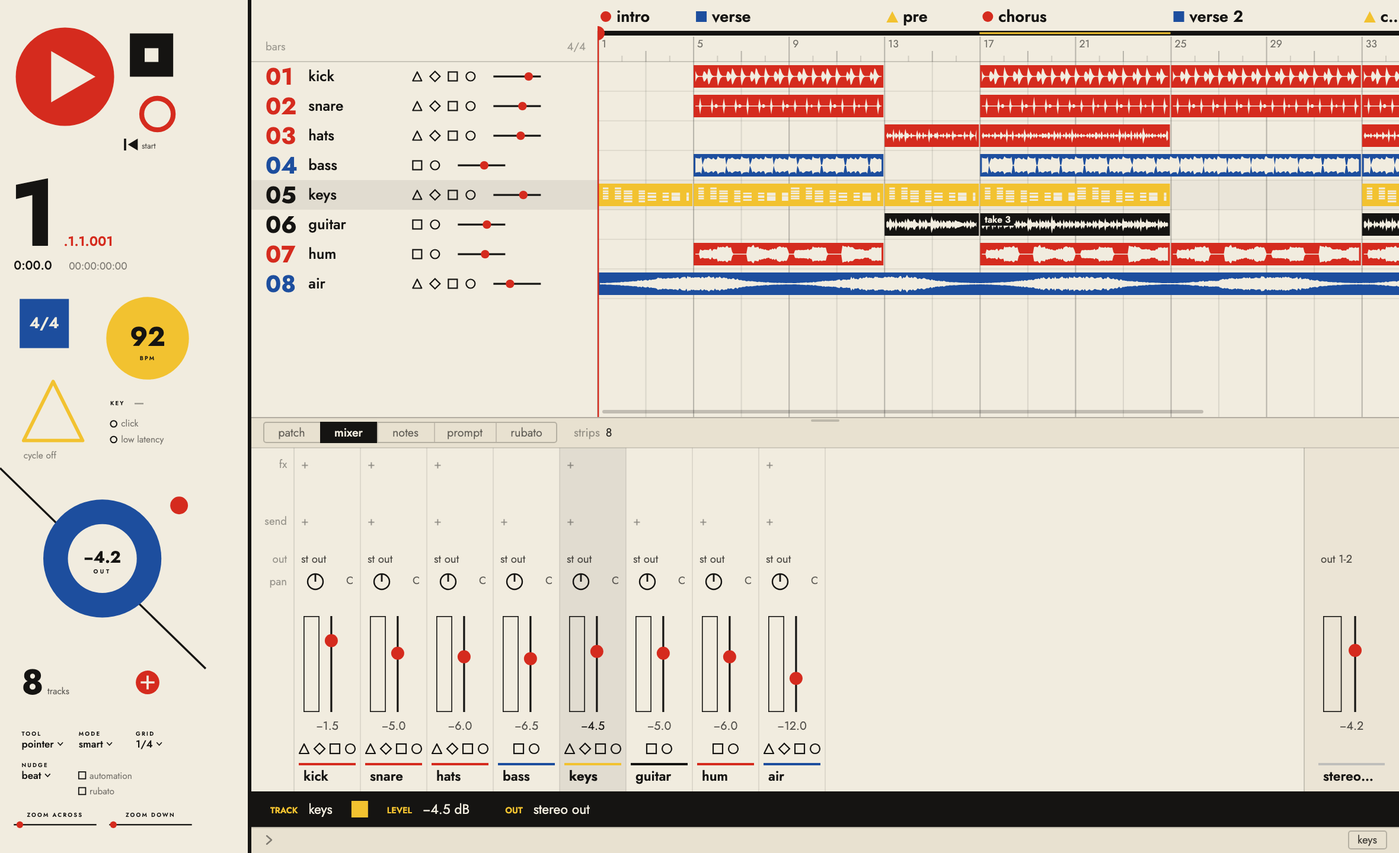
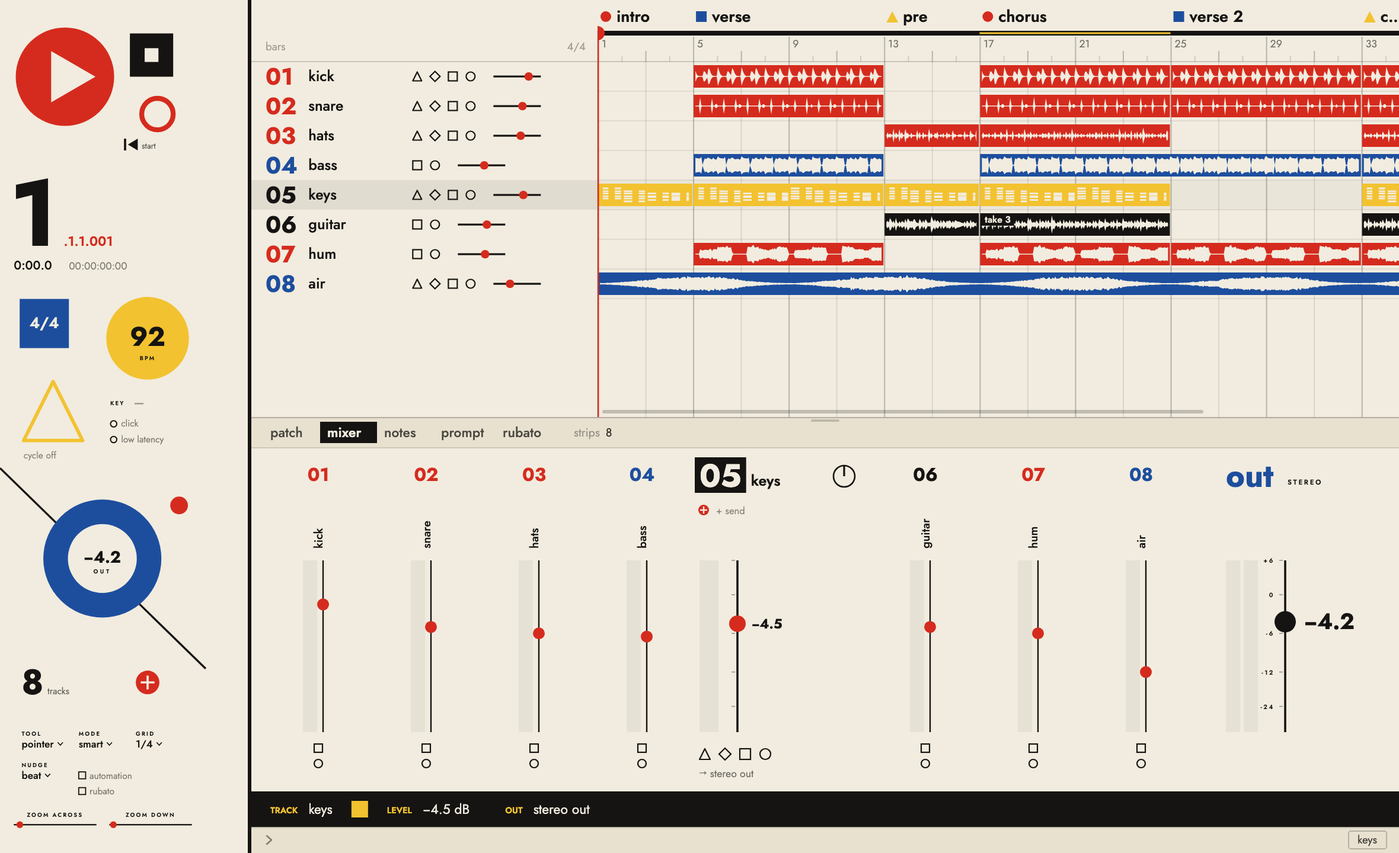
feat(daw): the bauhaus mixer — every track in sight, the chosen open; sends as knobs; its tabs as words
His pick of design/bauhaus mixer draft 2 (2026-10-21). A strip a column of a poster with no rules between; the strips
share the width so that every track is in sight: the chosen ones stand open (their number large in their colour, on a
black block when chosen, their name, a pan ring with a needle, their patch as squares of colour with names and a red
disc to put one on, the level as a bar of their colour as high as they sound with a black rule and a red disc and its
figure, their buttons as shapes, where they go), the others close to their number, their name turned up the strip, the
bar and the red disc, mute and solo; a closed strip pressed opens. Only past what the width holds (some fifty tracks
at 1440) do the strips scroll, a row of the numbers over them going to any one. The sends, his word on it: round knobs
as Logic Pro's down the room right of the level, how much under each, a dashed knob to give another, sized so six
stand in a strip; a send's knob turns from where it stands (up and to the right; ui.js 'msend' takes data-rel). The out
a blue bar each side and a black disc. The panel's tabs drawn by the theme (kit.js cells asks skins.js skinTabs):
words, the open one on black. Drafts in design/bauhaus mixer draft 1 and 2; the guide's bauhaus row says the mixer.

diff --git a/Daw/ui/skin-poster.js b/Daw/ui/skin-poster.js
@@ -176,3 +176,121 @@ SKINS.strip.poster = {
   cells: (sx, sw, y, its, i) => { let s = '', x = sx + (sw - its.length * 13 + 5) / 2; for (const it of its) { s += bhShape(it.t, x, y + 4, 8, it.on, it.t === 's' ? BH.blue : BH.black) + hit(x - 3, y, 14, 16, it.a, ` data-i="${i}"`); x += 13 } return s },
   name: (x, w, sx, sw, yb, t, sel) => T(sx + 4, yb - 9, fit(asGiven(t.name), sw - 6, 11, 600), { size: 11, w: sel ? 700 : 600 }),
 }
+
+/* ── the mixer (his pick of design/bauhaus mixer draft 2, 2026-10-21): every track in sight ──
+   A strip a column of a poster, no rules between them; the strips share the width so that every track is in sight. The
+   chosen tracks stand open: their number large in their colour (on a black block) and their name, their pan a ring with a
+   needle, what is on their patch as squares of colour with names, a red disc to put one on; the level, the largest part: a bar of their colour as high as they sound, a black rule, a red disc on it and its
+   figure beside, and right of it their sends as round knobs, how much under each; their buttons as shapes and where
+   they go. The others close to their number, their name turned up the
+   strip, the bar and the red disc, mute and solo. Pressed, a closed strip opens (it is chosen). Only past what the width
+   holds do the strips scroll, and a row of the numbers over them goes to any one. The out at the right: a blue bar for
+   each side, a black disc on the rule, its figure large. */
+const BMX = { v: new Map() }
+const BMX_WIDE = 148, BMX_MIN = 15, BMX_SENDS = 3                                 // (BMX_SENDS: as many sends as the engine has for a track — Engine.h SendSlot)
+function bhMixer (y, h) {
+  const vis = rows(), mw = 150, gutter = 14, room = RX - mw - gutter * 2
+  const nOpen = Math.min(vis.filter(i => isChosen(i)).length, Math.floor(room / BMX_WIDE))
+  let wide = BMX_WIDE, slim = 0, list = vis, over = false
+  if (vis.length * 104 <= room) { wide = clamp(Math.floor(room / vis.length), 104, BMX_WIDE); slim = wide }
+  else {
+    slim = Math.floor((room - nOpen * BMX_WIDE) / Math.max(1, vis.length - nOpen))
+    if (slim < BMX_MIN) {
+      over = true; slim = BMX_MIN
+      const fitN = nOpen + Math.floor((room - nOpen * BMX_WIDE) / BMX_MIN), at = vis.indexOf(S.sel)
+      if (at >= 0 && (at < S.panel.mx || at >= S.panel.mx + fitN)) S.panel.mx = at - Math.floor(fitN / 2)      // (the track chosen elsewhere is brought into sight)
+      S.panel.mx = clamp(S.panel.mx, 0, Math.max(0, vis.length - fitN)); list = vis.slice(S.panel.mx, S.panel.mx + fitN)
+    }
+    slim = Math.min(slim, 100)
+  }
+  /* how many lines the open strips' patches and sends take: the level starts under the longest */
+  const lines = t => { const f = fxItems(t).length; return Math.min(f, 3) + (f > 3 ? 1 : 0) + (t.theirs ? 0 : 1) }
+  const most = Math.max(3, ...list.filter(i => isChosen(i) || slim >= 104).map(i => lines(S.tracks[i])))
+  const top = y + (over ? 26 : 10), foot = y + h - 10, lt = top + 46 + most * 13, lb = foot - 40, lh = Math.max(30, lb - lt)
+  const yOf = db => lb - lh * volF(db)
+  BMX.v.clear()
+  let s = R(0, y, RX, h, { fill: K1 })
+  if (over) {
+    const cw = Math.min(22, (RX - 2 * gutter) / vis.length)
+    vis.forEach((i, k) => { const t = S.tracks[i], x = gutter + k * cw; s += T(x + cw / 2, y + 16, String(i + 1), { size: 8, w: 700, c: bhInk(bhCol(t)), a: list.includes(i) ? 1 : .45, anchor: 'middle' }) + hit(x, y + 4, cw, 16, 'msel', ` data-i="${i}"`) })
+  }
+  let x = gutter
+  for (const i of list) {
+    const t = S.tracks[i], di = ` data-i="${i}"`, sel = isChosen(i), c = bhCol(t), ink = bhInk(c), vol = shown(t, 'vol'), sw = sel || slim >= 104 ? wide : slim
+    const num = pad2(i + 1)
+    BMX.v.set(t.id, [lt, lh])
+    if (sw >= 104) {
+      const nw = tw(num, 26, 700), pan = shown(t, 'pan') || 0
+      if (sel) s += R(x - 4, top - 2, nw + 8, 30, { fill: BH.black })
+      s += T(x, top + 23, num, { size: 26, w: 700, c: sel ? BH.paper : ink }) + T(x + nw + 8, top + 22, fit(asGiven(t.name), sw - nw - 44, 12, 600), { size: 12, w: 600, a: heard(t) ? 1 : .5 }) + hit(x - 4, top - 2, sw - 30, 32, 'msel', di)
+      const pcx = x + sw - 26, pcy = top + 14, a = pan * 2.4
+      s += Cc(pcx, pcy, 9, { stroke: BH.black, sw: 1.3 }) + P(`M${n(pcx)} ${n(pcy)}L${n(pcx + 9 * Math.sin(a))} ${n(pcy - 9 * Math.cos(a))}`, { stroke: BH.black, sw: 1.6 }) + hit(pcx - 16, pcy - 13, 32, 26, 'mpan', `${di} data-x="${n(pcx - 30)}" data-pw="60"`, 'ew-resize')
+      /* its patch, a red disc to put one on */
+      const its = fxItems(t)
+      let yy = top + 46
+      its.slice(0, 3).forEach((it, j) => { s += R(x, yy - 7, 7, 7, { fill: it.c || BH.black, fa: it.off ? .35 : 1 }) + T(x + 11, yy, fit(asGiven(it.t), sw - 40, 9), { size: 9, a: it.off ? .45 : .9 }) + hit(x - 2, yy - 10, sw - 30, 13, 'mfx', `${di} data-k="${j}"`); yy += 13 })
+      if (its.length > 3) { s += T(x + 11, yy, `+${its.length - 3} more`, { size: 8, a: .5 }) + hit(x - 2, yy - 10, sw - 30, 13, 'm-patch', di); yy += 13 }
+      if (!t.theirs) s += Cc(x + 3.5, yy - 3.5, 4.5, { fill: BH.red }) + P(`M${n(x + 3.5)} ${n(yy - 6.5)}v6M${n(x + .5)} ${n(yy - 3.5)}h6`, { stroke: BH.paper, sw: 1.2 }) + hit(x - 3, yy - 10, 14, 13, 'mfxadd', di)
+      /* its sends: round knobs down the room right of the level, as many as there are and one more to give another (his
+         word on draft 2: knobs as Logic Pro's sends, how much under each; sized so that six stand in a strip) */
+      const sends = t.sends || [], canAdd = !t.theirs && sends.length < BMX_SENDS, slots = Math.max(6, sends.length + (canAdd ? 1 : 0)), per = lh / slots, kr = clamp((per - 14) / 2, 5.5, 11), kx = x + sw - 22
+      const knob = (cy, f) => { const a0 = -135 * Math.PI / 180, a1 = a0 + f * 270 * Math.PI / 180, at = (r, q) => `${n(kx + r * Math.sin(q))} ${n(cy - r * Math.cos(q))}`; return Cc(kx, cy, kr, { fill: BH.paper, stroke: BH.black, sw: 1.2 }) + (f > .004 ? P(`M${at(kr + 2.6, a0)}A${n(kr + 2.6)} ${n(kr + 2.6)} 0 ${f > 2 / 3 ? 1 : 0} 1 ${at(kr + 2.6, a1)}`, { stroke: BH.red, sw: 2.4 }) : '') + P(`M${n(kx)} ${n(cy)}L${at(kr - 1, a1)}`, { stroke: BH.black, sw: 1.6 }) }
+      sends.forEach((sd, k) => {
+        const cy = lt + per * k + kr + 3
+        s += knob(cy, volF(sd.db)) + T(kx, cy + kr + 9, fmtDb(sd.db), { size: 7.5, w: 600, a: .8, anchor: 'middle' })
+        s += hit(kx - kr - 5, cy - kr - 5, 2 * kr + 10, 2 * kr + 16, 'msend', `${di} data-k="${k}" data-rel="1" data-x="${n(kx - 60)}" data-pw="120"`, 'ns-resize')
+      })
+      if (canAdd) { const cy = lt + per * sends.length + kr + 3; s += Cc(kx, cy, kr, { stroke: BH.black, sw: 1, dash: '2 2', sa: .5 }) + P(`M${n(kx)} ${n(cy - 4)}v8M${n(kx - 4)} ${n(cy)}h8`, { stroke: BH.black, sw: 1.2, sa: .6 }) + hit(kx - kr - 4, cy - kr - 4, 2 * kr + 8, 2 * kr + 8, 'msendadd', di) }
+      /* the level */
+      const bw = 16, rx0 = x + bw + 16, fy = yOf(vol)
+      s += R(x, lt, bw, lh, { fill: BH.black, fa: .05 }) + R(x, lb, bw, 0, { fill: c, x: ` id="bmx-${t.id}"` })
+      for (const db of [6, 0, -6, -12, -24]) s += R(rx0 - 5, yOf(db) - .4, 3, .8, { fill: BH.black, fa: .4 })
+      s += R(rx0 - .9, lt, 1.8, lh, { fill: BH.black }) + Cc(rx0, fy, 7, { fill: BH.red, fa: heard(t) ? 1 : .5 }) + T(rx0 + 12, fy + 4, fmtDb(vol), { size: 11, w: 700 })
+      s += hit(x - 2, lt - 8, sw - 38, lh + 16, 'mvol', `${di} data-w="0"`, 'ns-resize')      // (short of the sends' knobs)
+      let cx = x
+      for (const it of cellsOf(t)) { s += bhShape(it.t, cx, foot - 26, 9, it.on, it.t === 's' ? BH.blue : BH.black) + hit(cx - 3, foot - 30, 15, 17, it.a, di); cx += 17 }
+      s += T(x, foot - 2, '→ ' + fit(asGiven(outName(t)), sw - 46, 8.5), { size: 8.5, a: .6 }) + hit(x - 2, foot - 12, sw - 30, 13, 'mout', di)
+    } else {
+      const cxm = x + (sw - 6) / 2, fy = yOf(vol)
+      s += T(cxm, top + 18, sw >= 30 ? num : String(i + 1), { size: sw >= 30 ? 15 : 10, w: 700, c: ink, anchor: 'middle' })
+      s += `<text x="${n(cxm + 3.5)}" y="${n(lt - 10)}" transform="rotate(-90 ${n(cxm + 3.5)} ${n(lt - 10)})" font-family="${FONT}" font-size="${n(9.5 * TF.scale)}" font-weight="500" fill="${BH.black}"${heard(t) ? '' : ' fill-opacity=".5"'}>${esc(fit(asGiven(t.name), lt - top - 34, 9.5))}</text>`
+      s += hit(x, top - 2, sw - 4, lt - top, 'msel', di)
+      const bw = Math.max(5, Math.min(12, sw * .3)), bx0 = cxm - bw - 1, rx0 = cxm + 4
+      s += R(bx0, lt, bw, lh, { fill: BH.black, fa: .05 }) + R(bx0, lb, bw, 0, { fill: c, x: ` id="bmx-${t.id}"` })
+      s += R(rx0 - .6, lt, 1.2, lh, { fill: BH.black }) + Cc(rx0, fy, sw >= 30 ? 5 : 4, { fill: BH.red, fa: heard(t) ? 1 : .5 })
+      s += hit(x, lt - 6, sw - 4, lh + 12, 'mvol', `${di} data-w="0"`, 'ns-resize')
+      cellsOf(t).filter(it => it.t === 'm' || it.t === 's').forEach((it, k) => { const yy = foot - 30 + k * 13; s += bhShape(it.t, cxm - 3.5, yy, 7, it.on, it.t === 's' ? BH.blue : BH.black) + hit(x, yy - 3, sw - 4, 13, it.a, di) })
+    }
+    x += sw
+  }
+  /* the out */
+  const ox = RX - mw - gutter + 18, fy = yOf(S.master), mr = ox + 50
+  BMX.v.set('M', [lt, lh])
+  s += T(ox, top + 23, 'out', { size: 26, w: 700, c: BH.blue }) + bhLab(ox + 52, top + 21, 'stereo') + hit(ox - 4, top - 2, mw - 20, 32, 'wall-out')
+  s += R(ox, lt, 12, lh, { fill: BH.black, fa: .05 }) + R(ox, lb, 12, 0, { fill: BH.blue, x: ' id="bmx-ML"' }) + R(ox + 15, lt, 12, lh, { fill: BH.black, fa: .05 }) + R(ox + 15, lb, 12, 0, { fill: BH.blue, x: ' id="bmx-MR"' })
+  for (const db of [6, 0, -6, -12, -24]) s += R(mr - 5, yOf(db) - .4, 3, .8, { fill: BH.black, fa: .4 }) + bhLab(mr - 9, yOf(db) + 2, db > 0 ? '+' + db : db, { anchor: 'end', size: 5 })
+  s += R(mr - .9, lt, 1.8, lh, { fill: BH.black }) + Cc(mr, fy, 9, { fill: BH.black }) + T(mr + 16, fy + 6, fmtDb(S.master), { size: 18, w: 700 })
+  s += hit(ox - 2, lt - 8, mw - 20, lh + 16, 'mmaster', '', 'ns-resize')
+  return s
+}
+SKINS.mixer.poster = bhMixer
+/* the panel's tabs: words, the open one on a black block */
+SKINS.tabs.poster = (x, y, h, items, o = {}) => {
+  let s = '', cx = x
+  items.forEach((it, k) => {
+    const w = tw(it.t, 11, it.on ? 600 : 500), cw = o.widths ? o.widths[k] : w + 16      // (as wide as the room's own tabs where it says: what follows them stays where it was)
+    s += (it.on ? R(cx, y, Math.max(cw, w + 12), h, { fill: BH.black }) : '') + T(cx + 6, y + h / 2 + 4, it.t, { size: 11, w: it.on ? 600 : 500, c: it.on ? BH.paper : BH.black, a: it.on ? 1 : .75 }) + hit(cx, y, cw, h, it.a)
+    cx += cw + (o.widths ? 0 : 4)
+  })
+  return [s, cx - x]
+}
+{ /* the mixer's bars, as loud as each track sounds now */
+  const frame0 = SKINS.frame.poster
+  SKINS.frame.poster = p => {
+    frame0(p)
+    if (typeof METERS !== 'object' || !BMX.v.size) return
+    const f = v => volF(Math.min(6, linDb(v)))
+    const bar = (id, g, v) => { const el = $(id); if (el && g) { const hh = g[1] * f(v); el.setAttribute('y', n(g[0] + g[1] - hh)); el.setAttribute('height', n(hh)) } }
+    for (const [key, g] of BMX.v) { if (key === 'M') { bar('bmx-ML', g, METERS.mm[0]); bar('bmx-MR', g, METERS.mm[1]) } else bar('bmx-' + key, g, METERS.now.get(key) || 0) }
+  }
+}

diff --git a/Daw/design/bauhaus mixer draft 2/mixer.js b/Daw/design/bauhaus mixer draft 2/mixer.js
@@ -1,0 +1,82 @@
+/* ── bauhaus, the mixer, draft 2: every track in sight (his ask, 2026-10-21: with many tracks, finding one should not
+   take scrolling) ──
+   Laid into the room by shots.mjs only (the room's own files are not changed until he says so).
+   As draft 1, a strip a column of a poster; but the strips share the width, so that every track is in sight. The chosen
+   tracks (chosen anywhere: in the lanes, the heads or here) stand open, as draft 1 has them; the others close to their
+   number, their name turned up the strip, the bar of their colour and the red disc of their level, and mute and solo as
+   a square and a circle. Pressed, a closed strip opens (it is chosen). Only past what the width can hold, the strips
+   scroll, and a row of the numbers over them goes to any one. */
+const BMX = { v: new Map() }
+const BMX_WIDE = 148, BMX_MIN = 15
+function bhMixer (y, h) {
+  const vis = rows(), mw = 150, gutter = 14, room = RX - mw - gutter * 2
+  const open = vis.filter(i => isChosen(i)), nOpen = Math.min(open.length, Math.floor(room / BMX_WIDE))
+  let wide = BMX_WIDE, slim = 0, list = vis, over = false
+  if (vis.length * 104 <= room) { wide = clamp(Math.floor(room / vis.length), 104, BMX_WIDE); slim = wide }      // (all of them open, as draft 1)
+  else {
+    slim = Math.floor((room - nOpen * BMX_WIDE) / Math.max(1, vis.length - nOpen))
+    if (slim < BMX_MIN) { over = true; slim = BMX_MIN; const fitN = nOpen + Math.floor((room - nOpen * BMX_WIDE) / BMX_MIN); S.panel.mx = clamp(S.panel.mx, 0, Math.max(0, vis.length - fitN)); list = vis.slice(S.panel.mx, S.panel.mx + fitN) }
+    slim = Math.min(slim, 100)
+  }
+  const top = y + (over ? 26 : 10), foot = y + h - 10, lt = top + 98, lb = foot - 40, lh = Math.max(40, lb - lt)
+  const yOf = db => lb - lh * volF(db)
+  let s = R(0, y, RX, h, { fill: K1 })
+  const lab = (x, yy, t, o = {}) => `<text x="${n(x)}" y="${n(yy)}" font-family="${FONT}" font-size="${n((o.size || 5.6) * TF.scale)}" font-weight="600" letter-spacing="1.3"${o.anchor ? ` text-anchor="${o.anchor}"` : ''} fill="${o.c || BH.black}"${o.a != null ? ` fill-opacity="${o.a}"` : ''}>${esc(String(t).toUpperCase())}</text>`
+  /* past the width: a row of the numbers, each going to its track */
+  if (over) {
+    const cw = Math.min(22, (RX - 2 * gutter) / vis.length)
+    vis.forEach((i, k) => { const t = S.tracks[i], x = gutter + k * cw, inView = list.includes(i); s += T(x + cw / 2, y + 16, String(i + 1), { size: 8, w: 700, c: bhInk(bhCol(t)), a: inView ? 1 : .45, anchor: 'middle' }) + hit(x, y + 4, cw, 16, 'msel', ` data-i="${i}"`) })
+  }
+  let x = gutter
+  for (const i of list) {
+    const t = S.tracks[i], di = ` data-i="${i}"`, sel = isChosen(i), c = bhCol(t), ink = bhInk(c), vol = shown(t, 'vol'), pan = shown(t, 'pan') || 0, sw = sel || slim >= 104 ? wide : slim, isOpen = sw >= 104
+    const num = pad2(i + 1)
+    BMX.v.set(t.id, [lt, lh])
+    if (isOpen) {
+      /* open: as draft 1 */
+      const nw = tw(num, 26, 700)
+      if (sel) s += R(x - 4, top - 2, nw + 8, 30, { fill: BH.black })
+      s += T(x, top + 23, num, { size: 26, w: 700, c: sel ? BH.paper : ink }) + T(x + nw + 8, top + 22, fit(asGiven(t.name), sw - nw - 44, 12, 600), { size: 12, w: 600, a: heard(t) ? 1 : .5 }) + hit(x - 4, top - 2, sw - 30, 32, 'msel', di)
+      const pcx = x + sw - 26, pcy = top + 14, a = pan * 2.4
+      s += Cc(pcx, pcy, 9, { stroke: BH.black, sw: 1.3 }) + P(`M${n(pcx)} ${n(pcy)}L${n(pcx + 9 * Math.sin(a))} ${n(pcy - 9 * Math.cos(a))}`, { stroke: BH.black, sw: 1.6 }) + hit(pcx - 16, pcy - 13, 32, 26, 'mpan', `${di} data-x="${n(pcx - 30)}" data-pw="60"`, 'ew-resize')
+      const its = fxItems(t), show = its.slice(0, 3)
+      show.forEach((it, j) => { const yy = top + 46 + j * 13; s += R(x, yy - 7, 7, 7, { fill: it.c || BH.black, fa: it.off ? .35 : 1 }) + T(x + 11, yy, fit(asGiven(it.t), sw - 40, 9), { size: 9, a: it.off ? .45 : .9 }) + hit(x - 2, yy - 10, sw - 30, 13, 'mfx', `${di} data-k="${j}"`) })
+      if (its.length > 3) s += T(x + 11, top + 46 + 3 * 13, `+${its.length - 3} more`, { size: 8, a: .5 }) + hit(x - 2, top + 46 + 3 * 13 - 10, sw - 30, 13, 'm-patch', di)
+      if (!t.theirs) { const ay = top + 46 + Math.min(its.length, 3) * 13 + (its.length > 3 ? 13 : 0); s += Cc(x + 3.5, ay - 3.5, 4.5, { fill: BH.red }) + P(`M${n(x + 3.5)} ${n(ay - 6.5)}v6M${n(x + .5)} ${n(ay - 3.5)}h6`, { stroke: BH.paper, sw: 1.2 }) + hit(x - 3, ay - 10, 14, 13, 'mfxadd', di) }
+      const bw = 16, rx0 = x + bw + 16, fy = yOf(vol)
+      s += R(x, lt, bw, lh, { fill: BH.black, fa: .05 }) + R(x, lb, bw, 0, { fill: c, x: ` id="bmx-${t.id}"` })
+      for (const db of [6, 0, -6, -12, -24]) s += R(rx0 - 5, yOf(db) - .4, 3, .8, { fill: BH.black, fa: .4 })
+      s += R(rx0 - .9, lt, 1.8, lh, { fill: BH.black }) + Cc(rx0, fy, 7, { fill: BH.red, fa: heard(t) ? 1 : .5 }) + T(rx0 + 12, fy + 4, fmtDb(vol), { size: 11, w: 700 })
+      s += hit(x - 2, lt - 8, sw - 30, lh + 16, 'mvol', `${di} data-w="0"`, 'ns-resize')
+      let cx = x
+      for (const it of cellsOf(t)) { s += bhShape(it.t, cx, foot - 26, 9, it.on, it.t === 's' ? BH.blue : BH.black) + hit(cx - 3, foot - 30, 15, 17, it.a, di); cx += 17 }
+      s += T(x, foot - 2, '→ ' + fit(asGiven(outName(t)), sw - 46, 8.5), { size: 8.5, a: .6 }) + hit(x - 2, foot - 12, sw - 30, 13, 'mout', di)
+    } else {
+      /* closed: its number, its name turned up the strip, its bar and its red disc, mute and solo */
+      const cxm = x + (sw - 6) / 2, nz = sw >= 30 ? 15 : 10, fy = yOf(vol)
+      s += T(cxm, top + 18, sw >= 30 ? num : String(i + 1), { size: nz, w: 700, c: ink, anchor: 'middle' })
+      const nameRoom = lt - top - 34
+      s += `<text x="${n(cxm + 3.5)}" y="${n(lt - 10)}" transform="rotate(-90 ${n(cxm + 3.5)} ${n(lt - 10)})" font-family="${FONT}" font-size="${n(9.5 * TF.scale)}" font-weight="500" fill="${BH.black}"${heard(t) ? '' : ' fill-opacity=".5"'}>${esc(fit(asGiven(t.name), nameRoom, 9.5))}</text>`
+      s += hit(x, top - 2, sw - 4, lt - top, 'msel', di)
+      const bw = Math.max(5, Math.min(12, sw * .3)), bx0 = cxm - bw - 1, rx0 = cxm + 4
+      s += R(bx0, lt, bw, lh, { fill: BH.black, fa: .05 }) + R(bx0, lb, bw, 0, { fill: c, x: ` id="bmx-${t.id}"` })
+      s += R(rx0 - .6, lt, 1.2, lh, { fill: BH.black }) + Cc(rx0, fy, sw >= 30 ? 5 : 4, { fill: BH.red, fa: heard(t) ? 1 : .5 })
+      s += hit(x, lt - 6, sw - 4, lh + 12, 'mvol', `${di} data-w="0"`, 'ns-resize')
+      const ms = cellsOf(t).filter(it => it.t === 'm' || it.t === 's')
+      ms.forEach((it, k) => { const yy = foot - 30 + k * 13; s += bhShape(it.t, cxm - 3.5, yy, 7, it.on, it.t === 's' ? BH.blue : BH.black) + hit(x, yy - 3, sw - 4, 13, it.a, di) })
+    }
+    x += sw
+  }
+  /* the out */
+  const ox = RX - mw - gutter + 18, fy = yOf(S.master)
+  BMX.v.set('M', [lt, lh])
+  s += T(ox, top + 23, 'out', { size: 26, w: 700, c: BH.blue }) + lab(ox + 52, top + 21, 'stereo') + hit(ox - 4, top - 2, mw - 20, 32, 'wall-out')
+  s += R(ox, lt, 12, lh, { fill: BH.black, fa: .05 }) + R(ox, lb, 12, 0, { fill: BH.blue, x: ' id="bmx-ML"' }) + R(ox + 15, lt, 12, lh, { fill: BH.black, fa: .05 }) + R(ox + 15, lb, 12, 0, { fill: BH.blue, x: ' id="bmx-MR"' })
+  const mr = ox + 50
+  for (const db of [6, 0, -6, -12, -24]) s += R(mr - 5, yOf(db) - .4, 3, .8, { fill: BH.black, fa: .4 }) + lab(mr - 9, yOf(db) + 2, db > 0 ? '+' + db : db, { anchor: 'end', size: 5 })
+  s += R(mr - .9, lt, 1.8, lh, { fill: BH.black }) + Cc(mr, fy, 9, { fill: BH.black }) + T(mr + 16, fy + 6, fmtDb(S.master), { size: 18, w: 700 })
+  s += hit(ox - 2, lt - 8, mw - 20, lh + 16, 'mmaster', '', 'ns-resize')
+  return s
+}
+SKINS.mixer.poster = bhMixer
+window.BMX = BMX                                                                     // (for the pictures: shots.mjs sets the bars by hand)

diff --git a/Daw/design/bauhaus mixer draft 1/mixer.js b/Daw/design/bauhaus mixer draft 1/mixer.js
@@ -1,0 +1,59 @@
+/* ── bauhaus, the mixer, draft 1 (his ask, 2026-10-21: "믹서 창도 한 번 너맘대로 디자인 해볼래?") ──
+   Laid into the room by shots.mjs only (the room's own files are not changed until he says so).
+   A strip is a column of a poster, no rules between them. Its number large in its colour and its name at the head, its
+   pan a ring with a needle beside them; what is on its patch as small squares of colour with their names, a red disc to
+   put one on; then the level, the largest part: a bar of the track's colour as high as it sounds, a black rule beside
+   it and on the rule a red disc where its level is, the level's figure riding beside the disc; at its foot its buttons
+   as shapes (a triangle to record, a diamond to hear the input, a square to mute, a circle to solo) and where it goes.
+   The chosen strip has its number on a black block. The out at the right: a blue bar for each side, a black disc on the
+   rule, its figure large. */
+const BMX = { geo: null, v: new Map() }
+function bhMixer (y, h) {
+  const vis = rows(), mw = 150, gutter = 14, room = RX - mw - gutter * 2, sw = clamp(Math.floor(room / Math.max(1, vis.length)), 104, 148), fitN = Math.max(1, Math.floor(room / sw))
+  S.panel.mx = clamp(S.panel.mx, 0, Math.max(0, vis.length - fitN))
+  const shownT = vis.slice(S.panel.mx, S.panel.mx + fitN)
+  const top = y + 10, foot = y + h - 10, lt = top + 98, lb = foot - 40, lh = Math.max(40, lb - lt)        // (lt..lb: the level's rule)
+  const yOf = db => lb - lh * volF(db)
+  BMX.geo = { lt, lh }
+  let s = R(0, y, RX, h, { fill: K1 })
+  const lab = (x, yy, t, o = {}) => `<text x="${n(x)}" y="${n(yy)}" font-family="${FONT}" font-size="${n((o.size || 5.6) * TF.scale)}" font-weight="600" letter-spacing="1.3"${o.anchor ? ` text-anchor="${o.anchor}"` : ''} fill="${o.c || BH.black}"${o.a != null ? ` fill-opacity="${o.a}"` : ''}>${esc(String(t).toUpperCase())}</text>`
+  shownT.forEach((i, k) => {
+    const t = S.tracks[i], x = gutter + k * sw, di = ` data-i="${i}"`, sel = isChosen(i), c = bhCol(t), ink = bhInk(c), vol = shown(t, 'vol'), pan = shown(t, 'pan') || 0
+    /* its number and name; the chosen one's number on a black block */
+    const num = pad2(i + 1), nw = tw(num, 26, 700)
+    if (sel) s += R(x - 4, top - 2, nw + 8, 30, { fill: BH.black })
+    s += T(x, top + 23, num, { size: 26, w: 700, c: sel ? BH.paper : ink }) + T(x + nw + 8, top + 22, fit(asGiven(t.name), sw - nw - 44, 12, 600), { size: 12, w: 600, a: heard(t) ? 1 : .5 }) + hit(x - 4, top - 2, sw - 30, 32, 'msel', di)
+    /* its pan: a ring with a needle */
+    const pcx = x + sw - 26, pcy = top + 14, a = pan * 2.4
+    s += Cc(pcx, pcy, 9, { stroke: BH.black, sw: 1.3 }) + P(`M${n(pcx)} ${n(pcy)}L${n(pcx + 9 * Math.sin(a))} ${n(pcy - 9 * Math.cos(a))}`, { stroke: BH.black, sw: 1.6 }) + hit(pcx - 16, pcy - 13, 32, 26, 'mpan', `${di} data-x="${n(pcx - 30)}" data-pw="60"`, 'ew-resize')
+    /* what is on its patch: squares of colour and their names; a red disc to put one on */
+    const its = fxItems(t), show = its.slice(0, 3)
+    show.forEach((it, j) => { const yy = top + 46 + j * 13; s += R(x, yy - 7, 7, 7, { fill: it.c || BH.black, fa: it.off ? .35 : 1 }) + T(x + 11, yy, fit(asGiven(it.t), sw - 40, 9), { size: 9, a: it.off ? .45 : .9 }) + hit(x - 2, yy - 10, sw - 30, 13, 'mfx', `${di} data-k="${j}"`) })
+    if (its.length > 3) s += T(x + 11, top + 46 + 3 * 13, `+${its.length - 3} more`, { size: 8, a: .5 }) + hit(x - 2, top + 46 + 3 * 13 - 10, sw - 30, 13, 'm-patch', di)
+    if (!t.theirs) { const ay = top + 46 + Math.min(its.length, 3) * 13 + (its.length > 3 ? 13 : 0); s += Cc(x + 3.5, ay - 3.5, 4.5, { fill: BH.red }) + P(`M${n(x + 3.5)} ${n(ay - 6.5)}v6M${n(x + .5)} ${n(ay - 3.5)}h6`, { stroke: BH.paper, sw: 1.2 }) + hit(x - 3, ay - 10, 14, 13, 'mfxadd', di) }
+    /* the level: a bar of its colour as high as it sounds, a black rule, a red disc on it, its figure beside */
+    const bx0 = x, bw = 16, rx0 = x + bw + 16, fy = yOf(vol)
+    BMX.v.set(t.id, [lt, lh])
+    s += R(bx0, lt, bw, lh, { fill: BH.black, fa: .05 }) + R(bx0, lb, bw, 0, { fill: c, x: ` id="bmx-${t.id}"` })
+    for (const db of [6, 0, -6, -12, -24]) s += R(rx0 - 5, yOf(db) - .4, 3, .8, { fill: BH.black, fa: .4 })
+    s += R(rx0 - .9, lt, 1.8, lh, { fill: BH.black }) + Cc(rx0, fy, 7, { fill: BH.red, fa: heard(t) ? 1 : .5 }) + T(rx0 + 12, fy + 4, fmtDb(vol), { size: 11, w: 700 })
+    s += hit(bx0 - 2, lt - 8, sw - 30, lh + 16, 'mvol', `${di} data-w="0"`, 'ns-resize')
+    /* its buttons as shapes, and where it goes */
+    let cx = x
+    for (const it of cellsOf(t)) { s += bhShape(it.t, cx, foot - 26, 9, it.on, it.t === 's' ? BH.blue : BH.black) + hit(cx - 3, foot - 30, 15, 17, it.a, di); cx += 17 }
+    s += T(x, foot - 2, '→ ' + fit(asGiven(outName(t)), sw - 46, 8.5), { size: 8.5, a: .6 }) + hit(x - 2, foot - 12, sw - 30, 13, 'mout', di)
+  })
+  if (fitN < vis.length) s += T(gutter, foot + 8, `${S.panel.mx + 1}–${S.panel.mx + shownT.length} of ${vis.length}`, { size: 8, a: .5 })
+  /* the out: a blue bar for each side, a black rule, a black disc on it, its figure large */
+  const ox = RX - mw - gutter + 18, fy = yOf(S.master)
+  BMX.v.set('M', [lt, lh])
+  s += T(ox, top + 23, 'out', { size: 26, w: 700, c: BH.blue }) + lab(ox + 52, top + 21, 'stereo') + hit(ox - 4, top - 2, mw - 20, 32, 'wall-out')
+  s += R(ox, lt, 12, lh, { fill: BH.black, fa: .05 }) + R(ox, lb, 12, 0, { fill: BH.blue, x: ' id="bmx-M"' }) + R(ox + 15, lt, 12, lh, { fill: BH.black, fa: .05 })
+  const mr = ox + 50
+  for (const db of [6, 0, -6, -12, -24]) s += R(mr - 5, yOf(db) - .4, 3, .8, { fill: BH.black, fa: .4 }) + lab(mr - 9, yOf(db) + 2, db > 0 ? '+' + db : db, { anchor: 'end', size: 5 })
+  s += R(mr - .9, lt, 1.8, lh, { fill: BH.black }) + Cc(mr, fy, 9, { fill: BH.black }) + T(mr + 16, fy + 6, fmtDb(S.master), { size: 18, w: 700 })
+  s += hit(ox - 2, lt - 8, mw - 20, lh + 16, 'mmaster', '', 'ns-resize')
+  return s
+}
+SKINS.mixer.poster = bhMixer
+window.BMX = BMX                                                                     // (for the pictures: shots.mjs sets the bars by hand)

diff --git a/Daw/ui/ui.js b/Daw/ui/ui.js
@@ -1480,7 +1480,7 @@ function onDown (e) {
     case 'm-patch': if (!isChosen(i)) leadTrack(i); else S.sel = i; S.panel.tab = 'patch'; uiDirty('head', 'lanes', 'dock', 'top'); break
     case 'mvol': tr.ghost = null; drag = { a, i, ly: p.y, f0: volF(shown(tr, 'vol')), acc: 0, v0: tr.vol, others: others(i, 'vol'), g: stripGeom(BY + PH, S.panel.h - PH, el.dataset.w === '1'), before: autoPts(tr, 'vol').length ? editState() : null }; break
     case 'mpan': drag = { a, i, v0: tr.pan || 0, pv: tr.pan || 0, lx: p.x, ly: p.y, others: others(i, 'pan') }; break      // (taken where it is: it moves by how far the hand goes, right or up for the right — never thrown to the pointer)
-    case 'msend': drag = { a, i, k: +el.dataset.k, x0: +el.dataset.x, w: +el.dataset.pw, px: p.x, moved: false, f: e.shiftKey && tr.sends[+el.dataset.k] ? volF(tr.sends[+el.dataset.k].db) : null, lx: p.x }; break
+    case 'msend': drag = { a, i, k: +el.dataset.k, x0: +el.dataset.x, w: +el.dataset.pw, px: p.x, moved: false, f: e.shiftKey && tr.sends[+el.dataset.k] ? volF(tr.sends[+el.dataset.k].db) : null, lx: p.x, rel: !!el.dataset.rel, py: p.y, f0: tr.sends[+el.dataset.k] ? volF(tr.sends[+el.dataset.k].db) : 0 }; break      // (rel: a knob, turned from where it stands, up and to the right — skin-poster.js)
     case 'msendadd': openSendMenu(tr, tr.sends.length, p.x - 10, p.y + 10); break
     case 'mfx': drag = { a, i, k: +el.dataset.k, x0: p.x, y0: p.y, alt: e.altKey, moved: false, to: [] }; break      // (let go where pressed: opened; pulled with option: copied — fxUp)
     case 'mfxadd': if (!isChosen(i)) leadTrack(i); else S.sel = i; S.picker.at = { x: p.x - 20, y: p.y + 12 }; openPicker('fx'); uiDirty('head', 'lanes', 'dock'); break
@@ -1591,8 +1591,8 @@ function onMove (e) {
   }
   else if (drag.a === 'msend') {
     const d = drag, tk = S.tracks[d.i], sd = tk.sends[d.k]
-    if (Math.abs(p.x - d.px) > 2) d.moved = true
-    if (d.moved && sd) { let f = clamp((p.x - d.x0) / d.w, 0, 1); if (e.shiftKey && d.f != null) f = clamp(d.f + (p.x - d.lx) / d.w * .2, 0, 1); d.f = f; d.lx = p.x; sd.db = fVol(f); pushTrack(tk); uiDirty('dock') }
+    if (Math.abs(p.x - d.px) > 2 || (d.rel && Math.abs(p.y - d.py) > 2)) d.moved = true
+    if (d.moved && sd) { let f = d.rel ? clamp(d.f0 + ((p.x - d.px) - (p.y - d.py)) / (e.shiftKey ? 600 : 160), 0, 1) : clamp((p.x - d.x0) / d.w, 0, 1); if (!d.rel && e.shiftKey && d.f != null) f = clamp(d.f + (p.x - d.lx) / d.w * .2, 0, 1); d.f = f; d.lx = p.x; sd.db = fVol(f); pushTrack(tk); uiDirty('dock') }
   }
   else if (drag.a === 'pgrip') { S.panel.h = Math.round(drag.h0 + (drag.y0 - p.y)); relayout(); dirtyAll() }
   else if (drag.a === 'rowh') { const h = clamp(Math.round(drag.h0 + (p.y - drag.y0)), ROW_MIN, ROW_MAX); for (const t of drag.who) t.h = h; VY = clamp(VY, 0, maxVY()); uiDirty('head', 'lanes') }

diff --git a/Daw/ui/skins.js b/Daw/ui/skins.js
@@ -10,7 +10,7 @@ const SKIN = { k: {}, bridge: false, right: false, noTool: false, deck: false, h
 /* the bands a transport takes: over the room, over the foot, down the left */
 const SKIN_BANDS = { plain: [44, 0, 0], console: [0, 82, 0], cassette: [124, 70, 0], score: [84, 52, 0], poster: [0, 30, 212], blueprint: [64, 112, 0], terminal: [96, 30, 0] }
 /* what each theme's parts draw (filled by skin-*.js): top, foot, left (the transport's bands), head, scenes, cycle, play, lanes, strip */
-const SKINS = { top: {}, foot: {}, left: {}, head: {}, scenes: {}, cycle: {}, play: {}, rule: {}, lanes: {}, strip: {}, mixer: {}, sound: {}, frame: {} }
+const SKINS = { top: {}, foot: {}, left: {}, head: {}, scenes: {}, cycle: {}, play: {}, rule: {}, lanes: {}, strip: {}, mixer: {}, tabs: {}, sound: {}, frame: {} }
 const BRIDGE_H = 96
 let DECK_H = 0
 function skinRead () {
@@ -26,6 +26,8 @@ function skinRead () {
   SKIN.console = SKIN.k.mixer === 'console'
 }
 const skinHas = part => SKIN.k[part] && SKIN.k[part] !== 'plain'
+/* the panel's tabs as the theme of the mixer draws them (kit.js cells asks), or null: as they come */
+const skinTabs = (x, y, h, items, o = {}) => SKINS.tabs[SKIN.k.mixer] ? SKINS.tabs[SKIN.k.mixer](x, y, h, items, o) : null
 /* the window cut again (ui.js relayout asks first): the bands of the transport and the bridge of meters */
 const SKIN_NO_TOOL = new Set(['poster'])                                           // (transports that hold the tool row's things themselves: it folds away)
 function skinLayout () {

diff --git a/Daw/ui/kit.js b/Daw/ui/kit.js
@@ -83,6 +83,7 @@ function oklch (L, C, h) {
 
 /* one outlined frame cut into cells; the chosen cell filled. An item: {t, k (the letter of its key), g (a drawing), on, c, dim, a (what a press does), more} */
 function cells (x, y, h, items, o = {}) {
+  if (typeof skinTabs === 'function' && items.length && /^tab-/.test(items[0].a || '')) { const r = skinTabs(x, y, h, items, o); if (r) return r }      // (the panel's tabs, as a theme draws them: skins.js)
   const { size = 9.5, pad = 9, widths, frame = .24, a = .62 } = o
   let cx = x, out = '', div = '', hits = ''
   const ws = items.map((it, i) => widths ? widths[i] : Math.round(tw(it.t || '', size, 500) + pad * 2 + (it.k ? tw(it.k, size - 1.5) + 7 : 0)))
